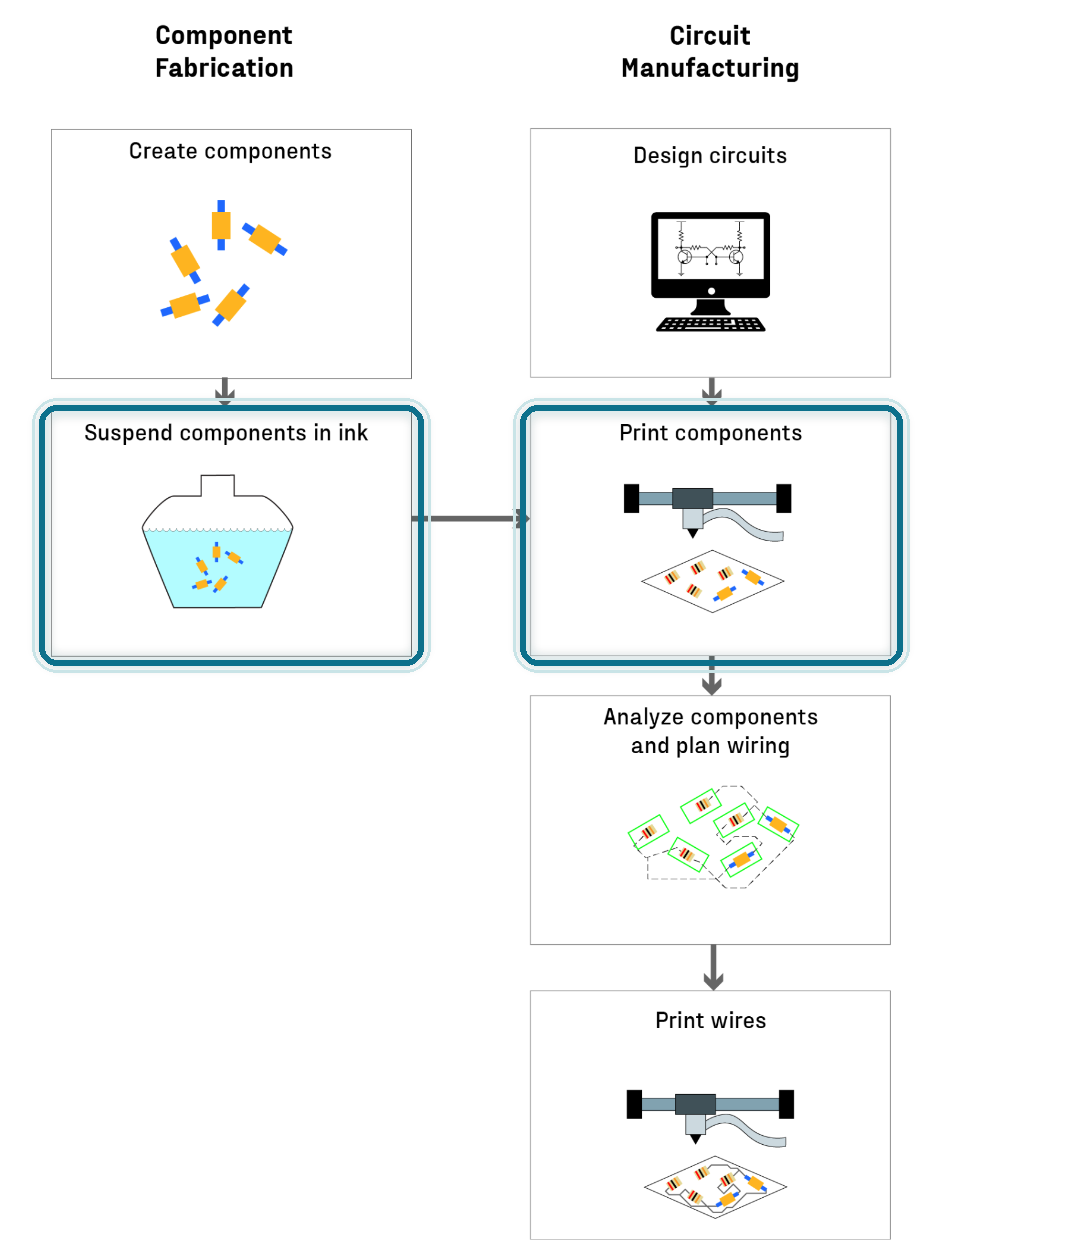
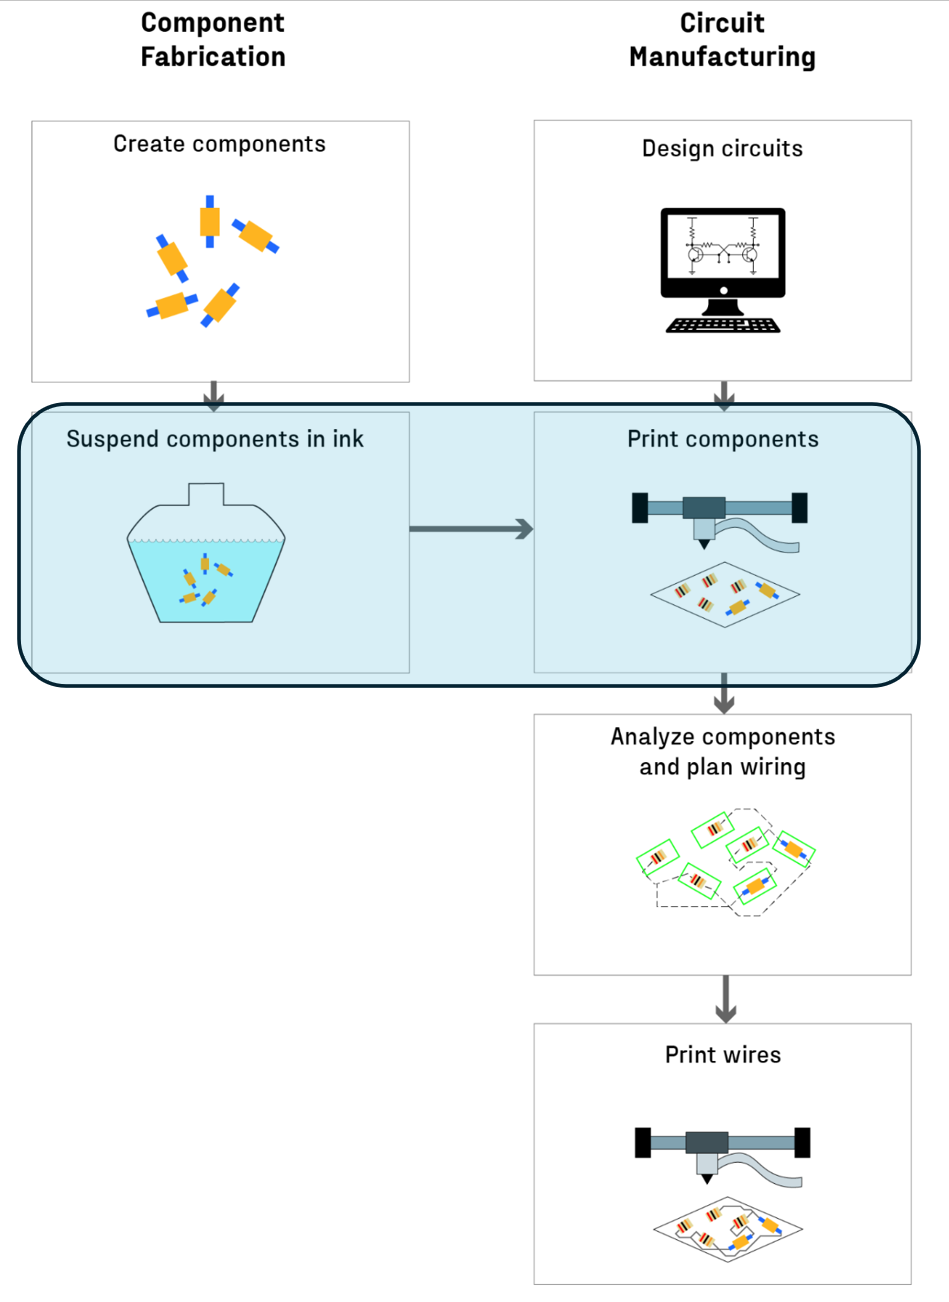
2

diff --git a/projects/printed-interconnect-reliability/index.md b/projects/printed-interconnect-reliability/index.md
@@ -24,8 +24,8 @@ Printed interconnects can look acceptable initially but fail later through resis
 ## Where this project fits in the workflow
 
 <figure class="wide-figure">
-  <img src="{{ '/assets/images/micromodular-workflow-interconnect-focus.png' | relative_url }}" alt="High-level micromodular electronics workflow with the interconnect subsystem outlined across analyzing components, planning wiring, and printing wires." loading="lazy">
-  <figcaption><strong>Micromodular electronics workflow.</strong> The rounded outline highlights the interconnect subsystem: analyzing printed component layouts, planning the wiring path, and printing the interconnects that turn placed components into a working circuit.</figcaption>
+  <img src="{{ '/assets/images/micromodular-workflow-interconnect-focus.png' | relative_url }}" alt="High-level micromodular electronics workflow with the interconnect subsystem highlighted across analyzing components, planning wiring, and printing wires." loading="lazy">
+  <figcaption><strong>Micromodular electronics workflow.</strong> The rounded rectangle highlights the interconnect subsystem: analyzing printed component layouts, planning the wiring path, and printing the interconnects that turn placed components into a working circuit.</figcaption>
 </figure>
 
 ## Engineering framing

diff --git a/projects/micromodular-deposition/index.md b/projects/micromodular-deposition/index.md
@@ -29,8 +29,8 @@ The practical question is:
 ## Where this project fits in the workflow
 
 <figure class="wide-figure">
-  <img src="{{ '/assets/images/micromodular-workflow-deposition-focus.png' | relative_url }}" alt="High-level micromodular electronics workflow with the deposition subsystem outlined across suspending components in ink and printing components." loading="lazy">
-  <figcaption><strong>Micromodular electronics workflow.</strong> The rounded outline highlights the deposition subsystem: suspending fabricated components in ink and printing them onto the substrate in a way that produces useful placement for downstream circuit assembly.</figcaption>
+  <img src="{{ '/assets/images/micromodular-workflow-deposition-focus.png' | relative_url }}" alt="High-level micromodular electronics workflow with the deposition subsystem highlighted across suspending components in ink and printing components." loading="lazy">
+  <figcaption><strong>Micromodular electronics workflow.</strong> The rounded rectangle highlights the deposition subsystem: suspending fabricated components in ink and printing them onto the substrate in a way that produces useful placement for downstream circuit assembly.</figcaption>
 </figure>
 
 ## Public-safe system schematic
